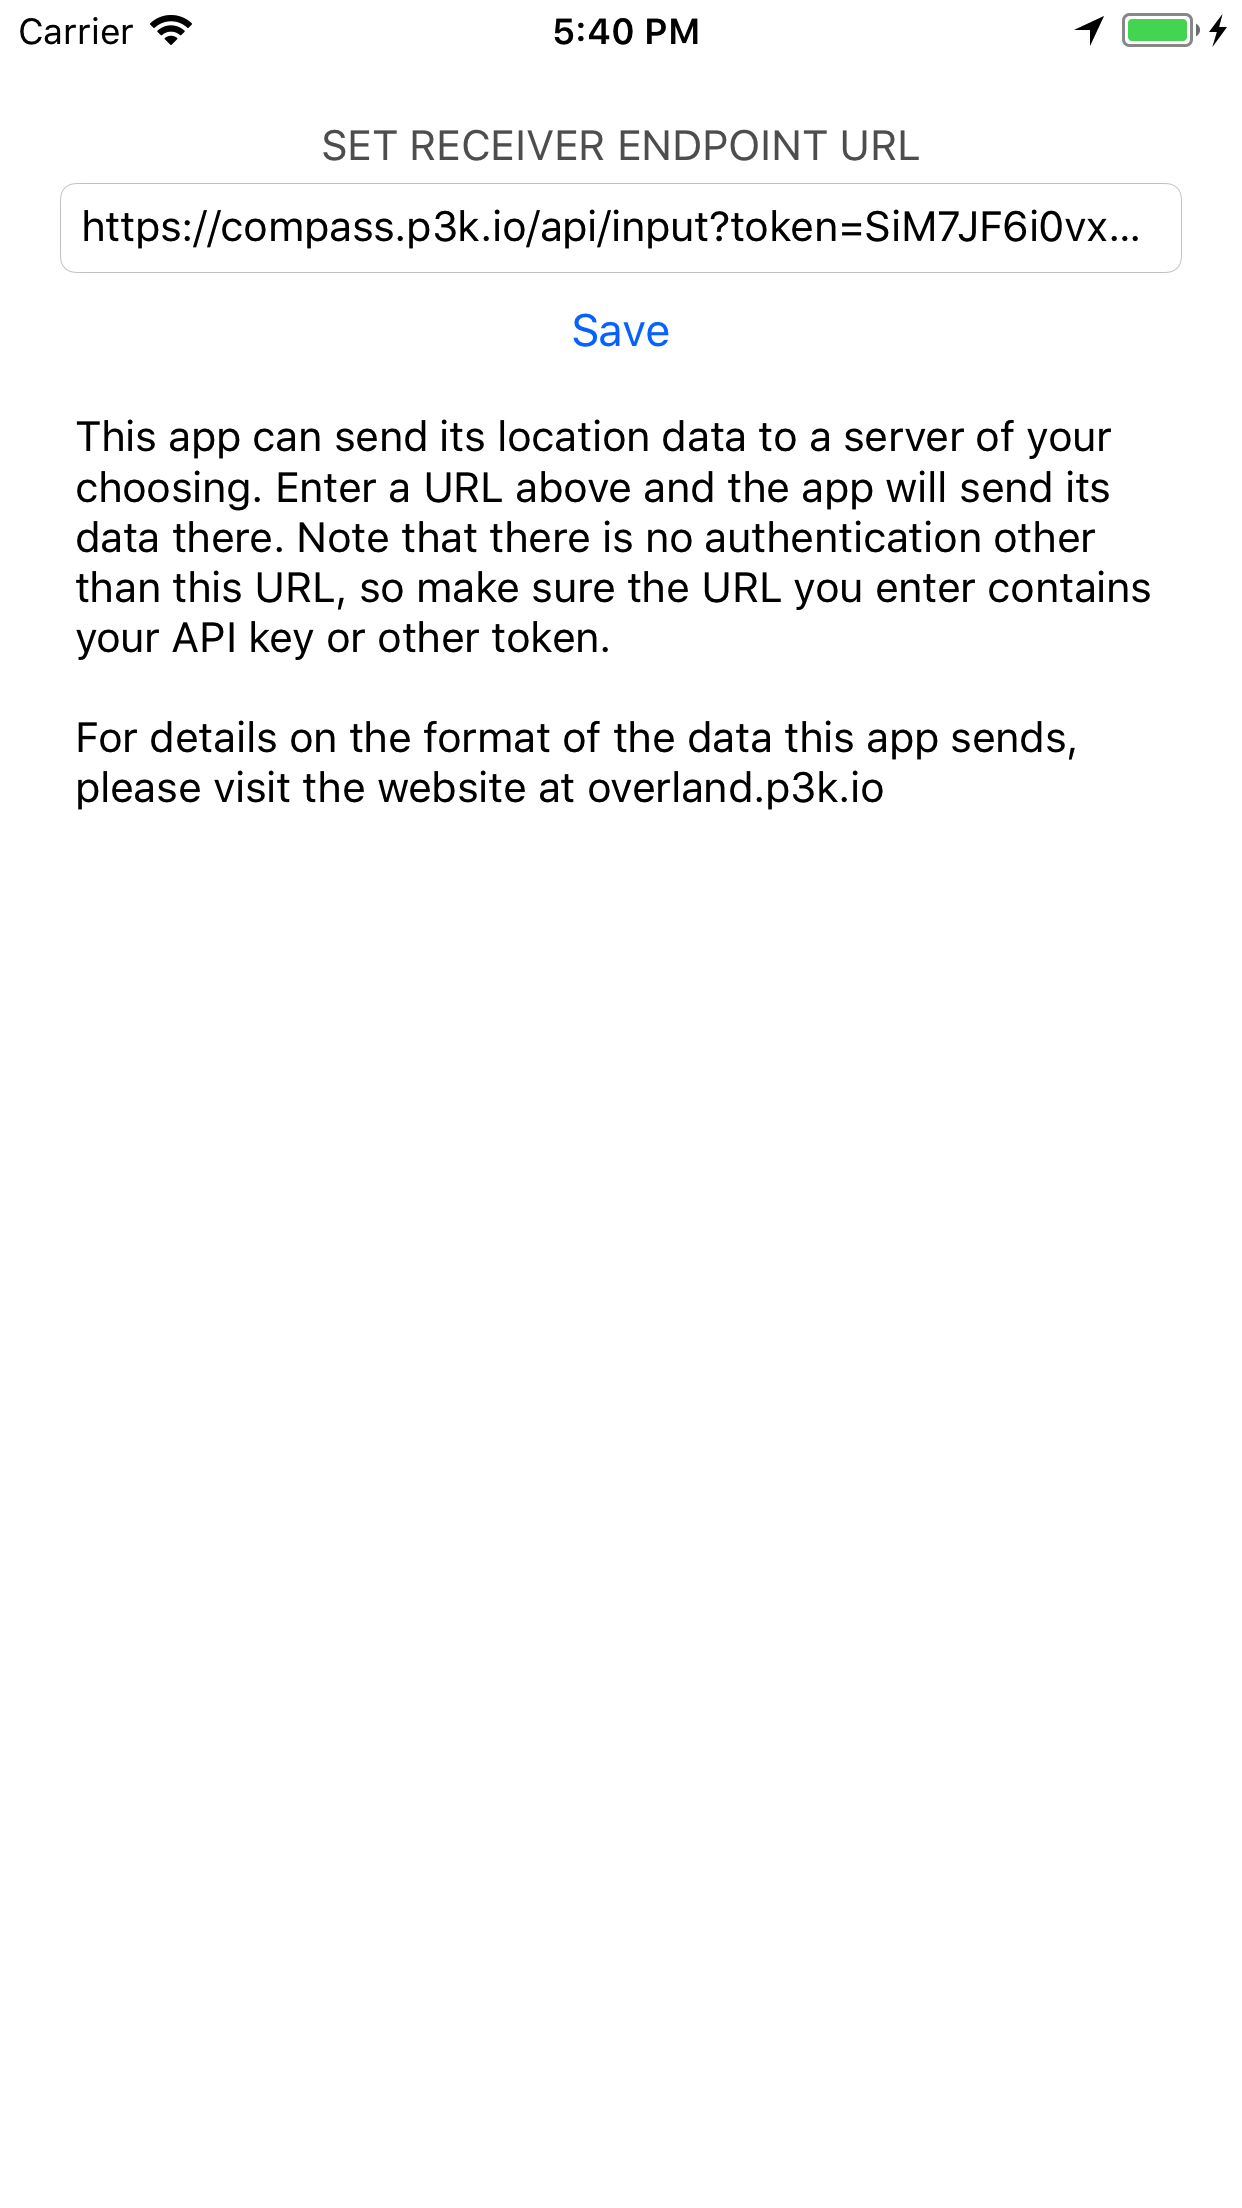
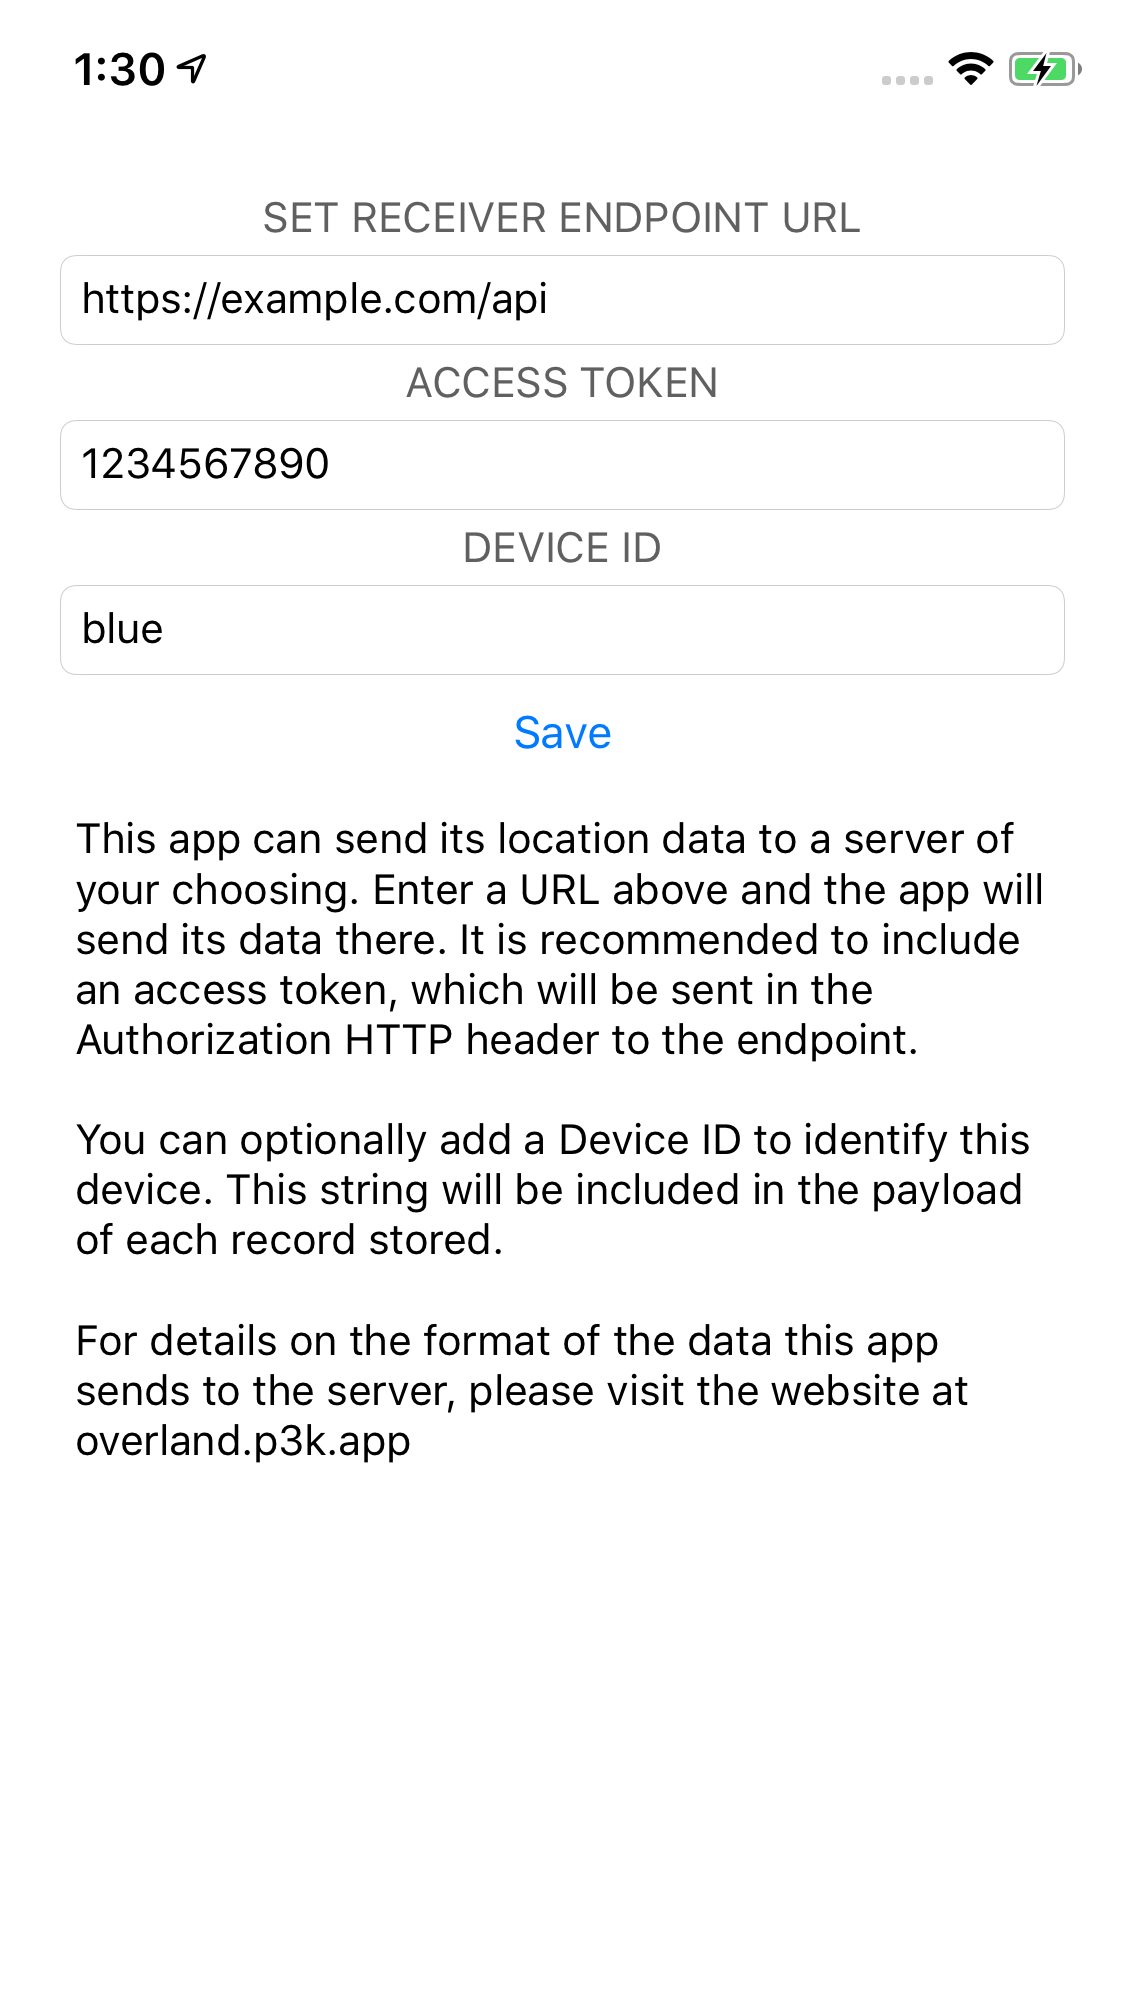
support sending access tokens in an HTTP header
* adds a new field to the endpoint setting screen
* support setting the endpoint, token and device id from a custom URL launcher

closes #73

diff --git a/GPSLogger/GLManager.m b/GPSLogger/GLManager.m
@@ -89,14 +89,19 @@ AFHTTPSessionManager *_flightHTTPClient;
 
 #pragma mark - GLManager control (public)
 
-- (void)saveNewAPIEndpoint:(NSString *)endpoint {
+- (void)saveNewAPIEndpoint:(NSString *)endpoint andAccessToken:(NSString *)accessToken {
     [[NSUserDefaults standardUserDefaults] setObject:endpoint forKey:GLAPIEndpointDefaultsName];
+    [[NSUserDefaults standardUserDefaults] setObject:accessToken forKey:GLAPIAccessTokenDefaultsName];
     [[NSUserDefaults standardUserDefaults] synchronize];
     [self setupHTTPClient];
 }
 
 - (NSString *)apiEndpointURL {
     return [[NSUserDefaults standardUserDefaults] stringForKey:GLAPIEndpointDefaultsName];
+}
+
+- (NSString *)apiAccessToken {
+    return [[NSUserDefaults standardUserDefaults] stringForKey:GLAPIAccessTokenDefaultsName];
 }
 
 - (void)saveNewDeviceId:(NSString *)deviceId {
@@ -185,7 +190,7 @@ AFHTTPSessionManager *_flightHTTPClient;
     }
     
     [self sendingStarted];
-    
+
     [_httpClient POST:endpoint parameters:postData progress:NULL success:^(NSURLSessionDataTask * _Nonnull task, id  _Nullable responseObject) {
         NSLog(@"Response: %@", responseObject);
         
@@ -318,6 +323,13 @@ AFHTTPSessionManager *_flightHTTPClient;
         _httpClient = [[AFHTTPSessionManager manager] initWithBaseURL:[NSURL URLWithString:[NSString stringWithFormat:@"%@://%@", endpoint.scheme, endpoint.host]]];
         _httpClient.requestSerializer = [AFJSONRequestSerializer serializer];
         _httpClient.responseSerializer = [AFJSONResponseSerializer serializer];
+        NSLog(@"Access Token: %@", self.apiAccessToken);
+        if(self.apiAccessToken != nil && ![@"" isEqualToString:self.apiAccessToken]) {
+            [_httpClient.requestSerializer setValue:[NSString stringWithFormat:@"Bearer %@", self.apiAccessToken]
+                                 forHTTPHeaderField:@"Authorization"];
+        } else {
+            [_httpClient.requestSerializer setValue:nil forHTTPHeaderField:@"Authorization"];
+        }
     }
     
     _flightHTTPClient = [[AFHTTPSessionManager manager] init];

diff --git a/GPSLogger/AppDelegate.m b/GPSLogger/AppDelegate.m
@@ -63,13 +63,24 @@
 - (BOOL)application:(UIApplication *)application openURL:(NSURL *)url sourceApplication:(NSString *)sourceApplication annotation:(id)annotation
 {
     if([[url host] isEqualToString:@"setup"]) {
-        NSString *endpoint = [[url query] stringByRemovingPercentEncoding];
-        NSLog(@"Saving new API Endpoint: %@", endpoint);
-        [[NSUserDefaults standardUserDefaults] setObject:endpoint forKey:GLAPIEndpointDefaultsName];
-        [[NSUserDefaults standardUserDefaults] synchronize];
+        NSURLComponents *urlComponents = [NSURLComponents componentsWithURL:url resolvingAgainstBaseURL:NO];
+        NSArray *queryItems  = urlComponents.queryItems;
+        NSString *endpoint = [self queryValueForKey:@"url" fromQueryItems:queryItems];
+        NSString *token    = [self queryValueForKey:@"token" fromQueryItems:queryItems];
+        NSString *deviceId = [self queryValueForKey:@"device_id" fromQueryItems:queryItems];
+        NSLog(@"Saving new config endpoint=%@ token=%@ device_id=%@", endpoint, token, deviceId);
+        [[GLManager sharedManager] saveNewDeviceId:deviceId];
+        [[GLManager sharedManager] saveNewAPIEndpoint:endpoint andAccessToken:token];
     }
     
     return YES;
 }
 
+- (NSString *)queryValueForKey:(NSString *)key fromQueryItems:(NSArray *)queryItems
+{
+    NSPredicate *predicate = [NSPredicate predicateWithFormat:@"name=%@", key];
+    NSURLQueryItem *queryItem = [[queryItems filteredArrayUsingPredicate:predicate] firstObject];
+    return queryItem.value;
+}
+                              
 @end

diff --git a/GPSLogger/EndpointViewController.m b/GPSLogger/EndpointViewController.m
@@ -17,6 +17,7 @@
 
 - (void)viewWillAppear:(BOOL)animated {
     self.apiEndpointField.text = [GLManager sharedManager].apiEndpointURL;
+    self.accessTokenField.text = [GLManager sharedManager].apiAccessToken;
     self.deviceIdField.text = [GLManager sharedManager].deviceId;
     self.apiEndpointField.backgroundColor = [UIColor clearColor];
 }
@@ -28,15 +29,13 @@
         self.apiEndpointField.backgroundColor = [UIColor clearColor];
         
         [[GLManager sharedManager] saveNewDeviceId:self.deviceIdField.text];
-        [[GLManager sharedManager] saveNewAPIEndpoint:self.apiEndpointField.text];
-
+        [[GLManager sharedManager] saveNewAPIEndpoint:self.apiEndpointField.text andAccessToken:self.accessTokenField.text];
         [self dismissViewControllerAnimated:YES completion:nil];
     } else if(self.apiEndpointField.text.length == 0) {
 
         [[GLManager sharedManager] saveNewDeviceId:self.deviceIdField.text];
-        [[GLManager sharedManager] saveNewAPIEndpoint:nil];
+        [[GLManager sharedManager] saveNewAPIEndpoint:nil andAccessToken:nil];
         [self dismissViewControllerAnimated:YES completion:nil];
-
     } else {
         self.apiEndpointField.backgroundColor = [UIColor colorWithRed:1.0 green:0.82 blue:0.82 alpha:1.0];
     }

diff --git a/GPSLogger/GLManager.h b/GPSLogger/GLManager.h
@@ -16,6 +16,7 @@ static NSString *const GLSendingStartedNotification = @"GLSendingStartedNotifica
 static NSString *const GLSendingFinishedNotification = @"GLSendingFinishedNotification";
 
 static NSString *const GLAPIEndpointDefaultsName = @"GLAPIEndpointDefaults";
+static NSString *const GLAPIAccessTokenDefaultsName = @"GLAPIAccessTokenDefaults";
 static NSString *const GLDeviceIdDefaultsName = @"GLDeviceIdDefaults";
 static NSString *const GLLastSentDateDefaultsName = @"GLLastSentDateDefaults";
 static NSString *const GLTrackingStateDefaultsName = @"GLTrackingStateDefaults";
@@ -86,8 +87,9 @@ typedef enum {
 - (void)stopAllUpdates;
 - (void)refreshLocation;
 
-- (void)saveNewAPIEndpoint:(NSString *)endpoint;
+- (void)saveNewAPIEndpoint:(NSString *)endpoint andAccessToken:(NSString *)accessToken;
 - (NSString *)apiEndpointURL;
+- (NSString *)apiAccessToken;
 - (void)saveNewDeviceId:(NSString *)deviceId;
 - (NSString *)deviceId;
 

diff --git a/GPSLogger/EndpointViewController.h b/GPSLogger/EndpointViewController.h
@@ -11,6 +11,7 @@
 @interface EndpointViewController : UIViewController
 
 @property (strong, nonatomic) IBOutlet UITextField *apiEndpointField;
+@property (strong, nonatomic) IBOutlet UITextField *accessTokenField;
 @property (strong, nonatomic) IBOutlet UITextField *deviceIdField;
 
 - (IBAction)saveButtonWasTapped:(UIButton *)sender;

diff --git a/README.md b/README.md
@@ -2,6 +2,7 @@ Overland GPS Tracker for iOS
 ============================
 
 This app is an experiment at gathering data from an iPhone to test the Core Location API and its various settings. The app tracks:
+
 * GPS location
 * Motion State (walking, running, driving, cycling, stationary)
 * Battery level
@@ -46,7 +47,7 @@ The Settings screen allows you to set the parameters of the iOS CoreLocation API
 
 These controls all set various properties of the CoreLocation LocationManager object. It is worth reading the [iOS documentation](https://developer.apple.com/reference/corelocation) for more details, but a summary of them is below.
 
-* `Receiver Endpoint` - Tap this line to set the endpoint that the app will send data to. You can also configure a device ID which will be included in each record.
+* `Receiver Endpoint` - Tap this line to set the endpoint that the app will send data to. You can also configure a device ID which will be included in each record, and an access token which will be sent in the HTTP Authorization header.
 * `Pause Updates Automatically` - Enabling this will use the iOS API for automatically pausing location updates. When disabled, it will prevent the OS from pausing location updates. Pausing location updates automatically is a great way to save battery when you are not moving for extended periods of time, although it does not always pick up tracking again immediately when you start moving. In some initial testing, the automatic pause tends to trigger about 10 minutes after you've stopped moving.
 * `Resume with Geofence` - This is not an core API, but is an attempt at overcoming the automatic pausing limitations. Setting a radius here will register an "exit" geofence whenever location updates are paused at that location. This will attempt to get the app woken up when the user leaves the area again, and when triggered, will resume tracking with the previous settings.
 * `Significant Location`
@@ -58,6 +59,16 @@ These controls all set various properties of the CoreLocation LocationManager ob
 * `Points per Batch` - Controls the number of location updates that will be sent with each HTTP request. Setting this to 50 will mean more requests to the server are required to flush the queue, but each request will be smaller. Setting this to 1000 means you'll be able to flush the queue with fewer requests, but each request will be much larger. Each location point can be around 600 bytes when serialized as JSON, so sending 1000 points in a request will mean the request body may be around 600kb. Lower batch sizes are likely better for flaky network connections, and larger batch sizes are good when on a reliable connection. Note that this does not affect the frequency at which data is sent to the server.
 * `Include tracking stats` - Toggle whether to include visit and app metadata in the log as well. This is useful when trying to understand the app lifecycle and how the various tracking settings affect the app's behavior, but you probably don't want it enabled for production passive tracking usage.
 * `Enable notifications` - Toggle whether the app should send notifications about events such as when tracking has been automatically stopped and started.
+
+#### Configuration by Custom URL
+
+You can send people a custom URL that will configure the app by clicking on it. Create a URL with your endpoint, token and device ID like the following:
+
+```
+overland://setup?url=https%3A%2F%2Fexample.com%2Fapi&token=1234&device_id=1
+```
+
+Tapping that URL on a device with the app installed will launch the app and save the values in the configuration. This is a quick way to configure many devices since it bypasses the need to enter the values in the settings screen.
 
 
 ### Usage Profiles
@@ -100,6 +111,10 @@ This will use much less battery than high resolution, while still gathering enou
 The app will post the location data to the configured endpoint. The POST request will be an array of GeoJSON objects inside a property called "locations". The batch size is 200 but can be set [in the configuration](https://github.com/aaronpk/Overland-iOS/blob/master/GPSLogger/GLManager.h#L40). This request may look like the following:
 
 ```
+POST /api HTTP/1.1
+Authorization: Bearer xxxxxx
+Content-Type: application/json
+
 {
   "locations": [
     {
@@ -135,6 +150,8 @@ The app will post the location data to the configured endpoint. The POST request
   "trip": { ... } (optional)
 }
 ```
+
+If you've configured an access token, it will be sent in the HTTP `Authorization` header preceded by the text `Bearer`.
 
 The properties on the `location` objects are as follows:
 
